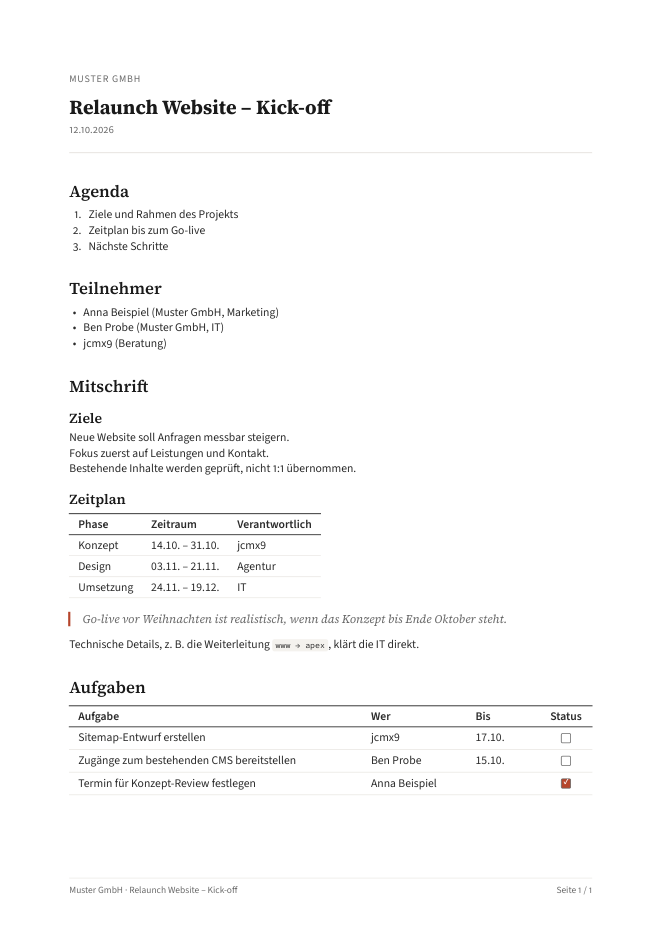
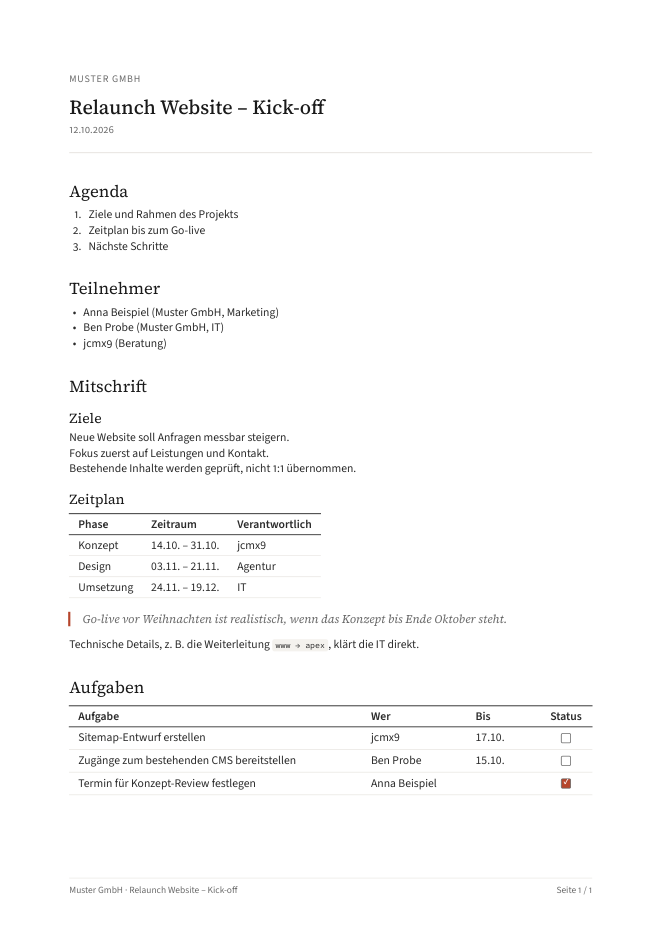
feat: lighter headings in the PDF and the editor (#43)
Title Medium, # and ## Regular, ### Medium, #### italic Regular; the
serif already separates headings from the sans body text.

diff --git a/zettlr/source-zettlr.css b/zettlr/source-zettlr.css
@@ -94,7 +94,7 @@ body .cm-editor {
     --zettlr-editor-code-font: var(--src-font-mono);
     --zettlr-editor-line-height: 1.65;
 
-    --zettlr-editor-header-style: 600;
+    --zettlr-editor-header-style: 400;
     --zettlr-editor-strong-style: 700;
     --zettlr-editor-emphasis-style: italic;
     --zettlr-editor-code-style: normal;
@@ -161,13 +161,13 @@ body .cm-editor .cm-line:has(.cm-header-2) {
 }
 
 body .cm-editor .cm-line:has(.cm-header-3) {
-    --zettlr-editor-header-style: 700;
+    --zettlr-editor-header-style: 500;
     padding-top: 0.7em;
     padding-bottom: 0.1em;
 }
 
 body .cm-editor .cm-line:has(.cm-header-4) {
-    --zettlr-editor-header-style: italic 600;
+    --zettlr-editor-header-style: italic 400;
     padding-top: 0.6em;
 }
 

diff --git a/CHANGELOG.md b/CHANGELOG.md
@@ -9,6 +9,7 @@ Format based on [Keep a Changelog](https://keepachangelog.com/en/1.1.0/); versio
 
 ### Changed
 - The date below the title appears only when `date:` is set in the front matter (it used to default to the export date)
+- Lighter headings in the PDF and the Zettlr editor: title Medium (500), `#` and `##` Regular (400), `###` Medium, `####` italic Regular; the serif already sets them apart from the sans text
 
 ## [26.10.14] - 2026-10-13
 
